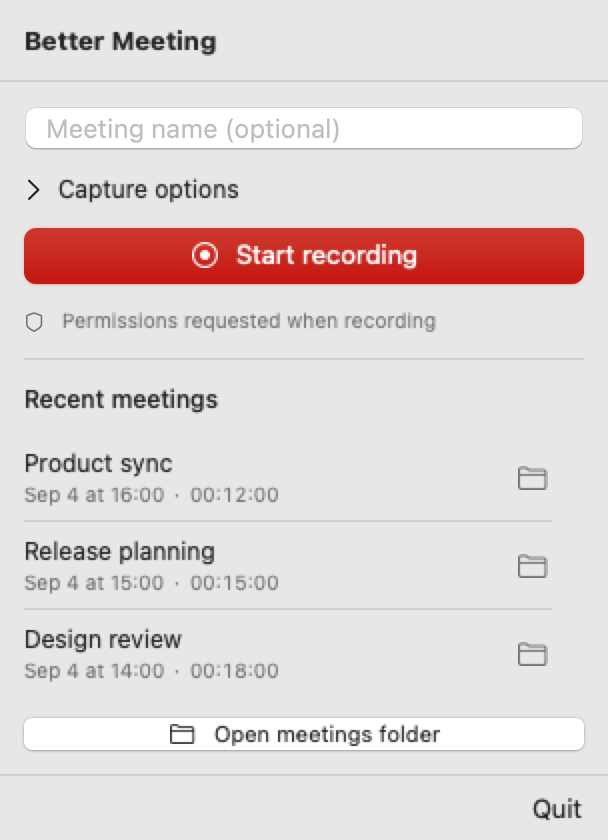
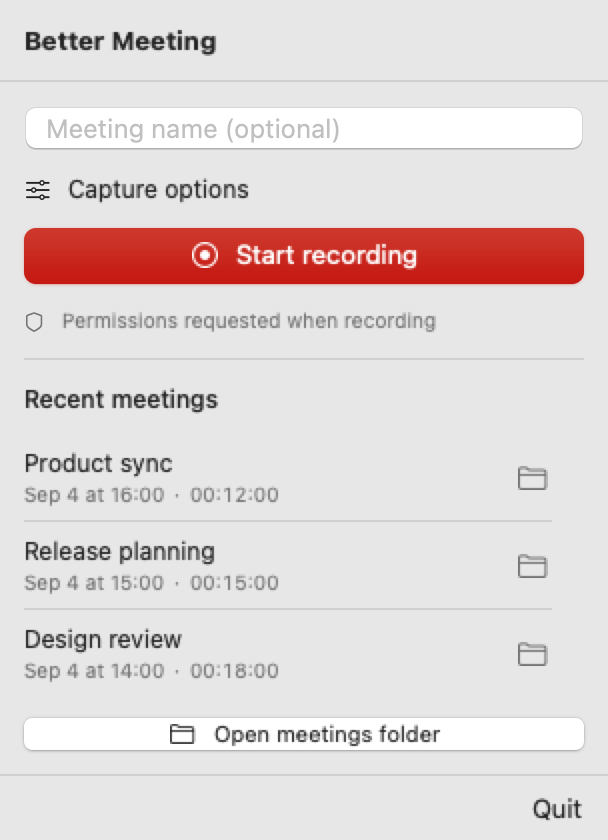
Keep capture options from resizing the menu panel

Changed region(s): [[0.0312, 0.2167, 0.4062, 0.2476]]

diff --git a/Sources/BetterMeetingApp/MenuBarControlView.swift b/Sources/BetterMeetingApp/MenuBarControlView.swift
@@ -3,7 +3,7 @@ import SwiftUI
 
 struct MenuBarControlView: View {
     @EnvironmentObject private var model: AppModel
-    @State private var captureOptionsExpanded = false
+    @State var captureOptionsPresented = false
 
     var body: some View {
         VStack(alignment: .leading, spacing: 0) {
@@ -72,82 +72,20 @@ struct MenuBarControlView: View {
             TextField("Meeting name (optional)", text: $model.meetingTitle)
                 .textFieldStyle(.roundedBorder)
 
-            VStack(alignment: .leading, spacing: 0) {
-                Button {
-                    captureOptionsExpanded.toggle()
-                } label: {
-                    Label(
-                        "Capture options",
-                        systemImage: captureOptionsExpanded ? "chevron.down" : "chevron.right"
-                    )
+            Button {
+                captureOptionsPresented.toggle()
+            } label: {
+                Label("Capture options", systemImage: "slider.horizontal.3")
                     .frame(maxWidth: .infinity, alignment: .leading)
                     .contentShape(Rectangle())
-                }
-                .buttonStyle(.plain)
-                .accessibilityValue(captureOptionsExpanded ? "Expanded" : "Collapsed")
-
-                if captureOptionsExpanded {
-                    Grid(alignment: .leading, horizontalSpacing: 8, verticalSpacing: 8) {
-                        GridRow {
-                            Text("Display")
-                            Picker("Display", selection: $model.selectedDisplayID) {
-                                Text("Main display").tag(UInt32(0))
-                                ForEach(model.displays, id: \.id) { display in
-                                    Text(display.name).tag(display.id)
-                                }
-                                if model.selectedDisplayID != 0 && !model.displays.contains(where: { $0.id == model.selectedDisplayID }) {
-                                    Text("Unavailable display").tag(model.selectedDisplayID)
-                                }
-                            }
-                            .labelsHidden()
-                            .frame(maxWidth: .infinity)
-                        }
-                        GridRow {
-                            Text("Microphone")
-                            Picker("Microphone", selection: $model.selectedMicrophoneID) {
-                                Text("System default").tag("")
-                                ForEach(model.microphones, id: \.uniqueID) { microphone in
-                                    Text(microphone.localizedName).tag(microphone.uniqueID)
-                                }
-                                if !model.selectedMicrophoneID.isEmpty && !model.microphones.contains(where: { $0.uniqueID == model.selectedMicrophoneID }) {
-                                    Text("Unavailable microphone").tag(model.selectedMicrophoneID)
-                                }
-                            }
-                            .labelsHidden()
-                            .frame(maxWidth: .infinity)
-                        }
-                        GridRow {
-                            Text("Resolution")
-                            Picker("Resolution", selection: $model.captureResolution) {
-                                ForEach(CaptureResolution.allCases, id: \.self) { resolution in
-                                    Text(resolution.label).tag(resolution)
-                                }
-                            }
-                            .labelsHidden()
-                            .frame(maxWidth: .infinity)
-                            .help("Limits the video's longest edge without upscaling")
-                        }
-                        GridRow {
-                            Text("Frame rate")
-                            Picker("Frame rate", selection: $model.captureQuality) {
-                                ForEach(CaptureQuality.allCases, id: \.self) { quality in
-                                    Text(quality.label).tag(quality)
-                                }
-                            }
-                            .labelsHidden()
-                            .frame(maxWidth: .infinity)
-                            .help("Higher frame rates make motion smoother and use more storage")
-                        }
-                        GridRow {
-                            Text("Save to")
-                            destinationButton
-                        }
-                    }
-                    .controlSize(.small)
-                    .padding(.top, 6)
-                }
             }
+            .buttonStyle(.plain)
             .font(.callout)
+            .popover(isPresented: $captureOptionsPresented, arrowEdge: .trailing) {
+                captureOptions
+                    .padding(12)
+                    .frame(width: 304)
+            }
 
             primaryActionButton
 
@@ -166,6 +104,67 @@ struct MenuBarControlView: View {
 
             historySection
         }
+    }
+
+    private var captureOptions: some View {
+        Grid(alignment: .leading, horizontalSpacing: 8, verticalSpacing: 8) {
+            GridRow {
+                Text("Display")
+                Picker("Display", selection: $model.selectedDisplayID) {
+                    Text("Main display").tag(UInt32(0))
+                    ForEach(model.displays, id: \.id) { display in
+                        Text(display.name).tag(display.id)
+                    }
+                    if model.selectedDisplayID != 0 && !model.displays.contains(where: { $0.id == model.selectedDisplayID }) {
+                        Text("Unavailable display").tag(model.selectedDisplayID)
+                    }
+                }
+                .labelsHidden()
+                .frame(maxWidth: .infinity)
+            }
+            GridRow {
+                Text("Microphone")
+                Picker("Microphone", selection: $model.selectedMicrophoneID) {
+                    Text("System default").tag("")
+                    ForEach(model.microphones, id: \.uniqueID) { microphone in
+                        Text(microphone.localizedName).tag(microphone.uniqueID)
+                    }
+                    if !model.selectedMicrophoneID.isEmpty && !model.microphones.contains(where: { $0.uniqueID == model.selectedMicrophoneID }) {
+                        Text("Unavailable microphone").tag(model.selectedMicrophoneID)
+                    }
+                }
+                .labelsHidden()
+                .frame(maxWidth: .infinity)
+            }
+            GridRow {
+                Text("Resolution")
+                Picker("Resolution", selection: $model.captureResolution) {
+                    ForEach(CaptureResolution.allCases, id: \.self) { resolution in
+                        Text(resolution.label).tag(resolution)
+                    }
+                }
+                .labelsHidden()
+                .frame(maxWidth: .infinity)
+                .help("Limits the video's longest edge without upscaling")
+            }
+            GridRow {
+                Text("Frame rate")
+                Picker("Frame rate", selection: $model.captureQuality) {
+                    ForEach(CaptureQuality.allCases, id: \.self) { quality in
+                        Text(quality.label).tag(quality)
+                    }
+                }
+                .labelsHidden()
+                .frame(maxWidth: .infinity)
+                .help("Higher frame rates make motion smoother and use more storage")
+            }
+            GridRow {
+                Text("Save to")
+                destinationButton
+            }
+        }
+        .controlSize(.small)
+        .font(.callout)
     }
 
     private var historySection: some View {
@@ -254,6 +253,14 @@ struct MenuBarControlView: View {
             .accessibilityLabel("Show \(item.title) in Finder")
         }
         .frame(minHeight: 43)
+        .contentShape(Rectangle())
+        .contextMenu {
+            Button("Copy Transcript") {
+                do { try model.copyTranscript(item) }
+                catch { NSAlert(error: error).runModal() }
+            }
+            Button("Rename…") { model.renameMeeting(item) }
+        }
     }
 
     private var destinationButton: some View {

diff --git a/Tests/BetterMeetingTests/RecoveryTests.swift b/Tests/BetterMeetingTests/RecoveryTests.swift
@@ -99,6 +99,20 @@ final class RecoveryTests: XCTestCase {
     }
 
     @MainActor
+    func testCaptureOptionsDoesNotResizeMenu() throws {
+        let suite = "BetterMeetingLayout.\(UUID().uuidString)"
+        let defaults = try XCTUnwrap(UserDefaults(suiteName: suite))
+        defaults.set(FileManager.default.temporaryDirectory.appendingPathComponent(suite), forKey: "outputFolder")
+        defer { defaults.removePersistentDomain(forName: suite) }
+        _ = NSApplication.shared
+        let model = AppModel(defaults: defaults)
+        let closed = NSHostingView(rootView: MenuBarControlView().environmentObject(model))
+        let presented = NSHostingView(rootView: MenuBarControlView(captureOptionsPresented: true).environmentObject(model))
+        XCTAssertGreaterThan(closed.fittingSize.height, 0)
+        XCTAssertEqual(presented.fittingSize, closed.fittingSize)
+    }
+
+    @MainActor
     func testRenderMenuBarPreview() throws {
         guard let path = ProcessInfo.processInfo.environment["BETTER_MEETING_PREVIEW_PATH"] else {
             throw XCTSkip("Set BETTER_MEETING_PREVIEW_PATH to render the menu with fictional meetings")
